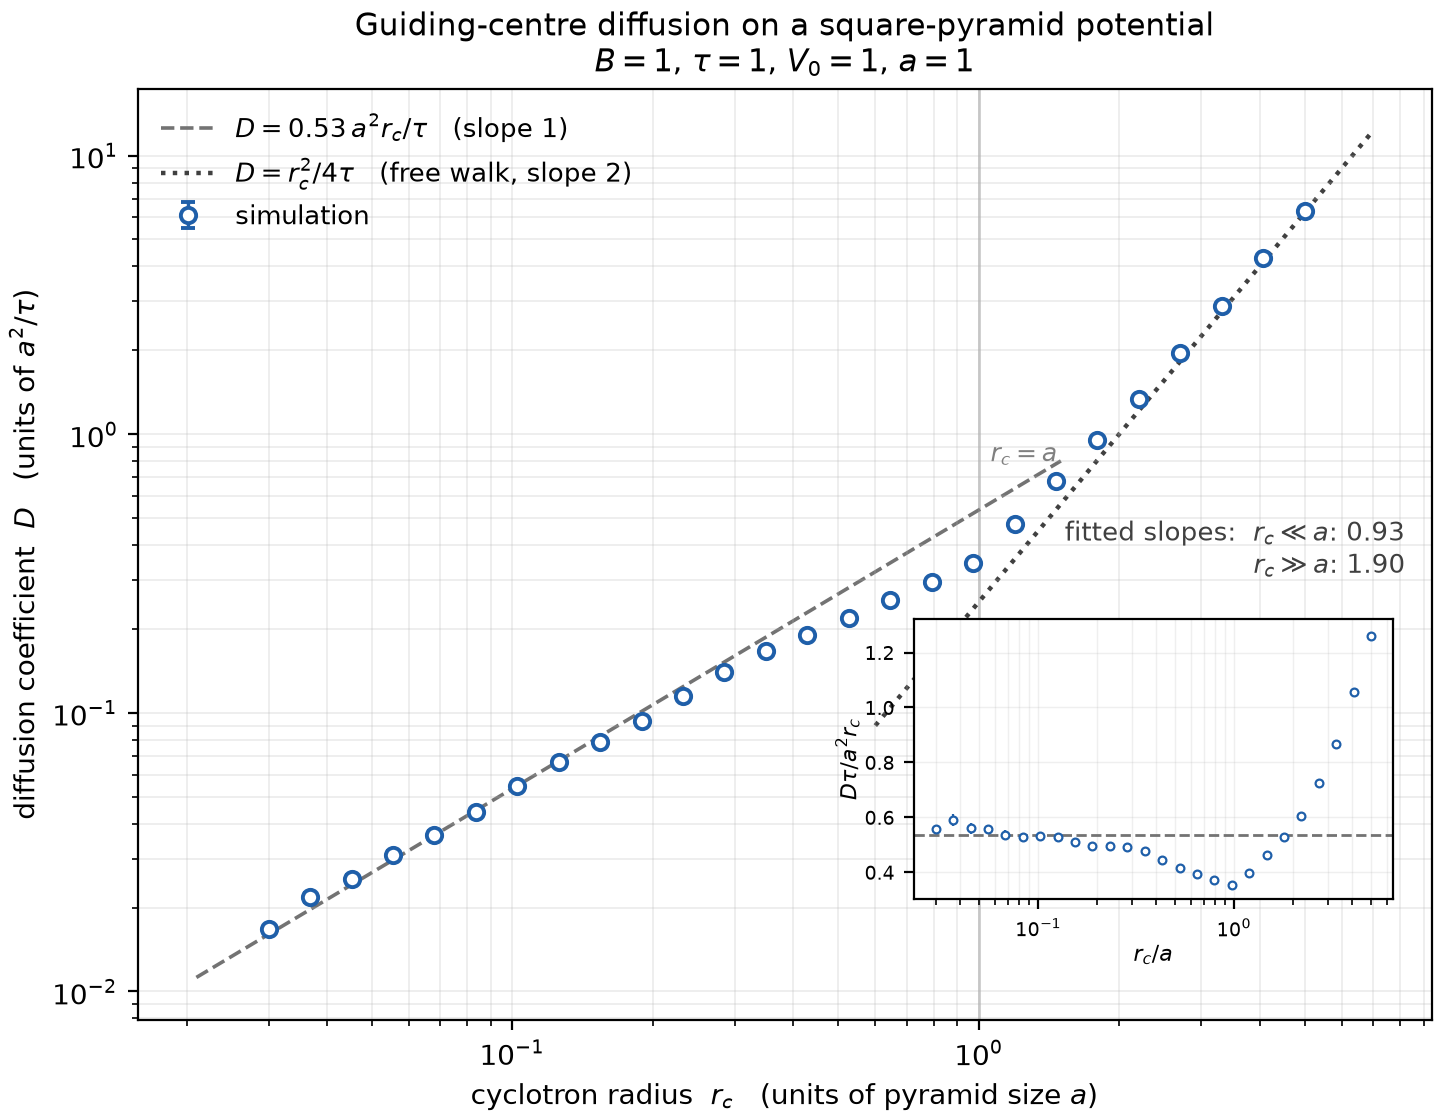
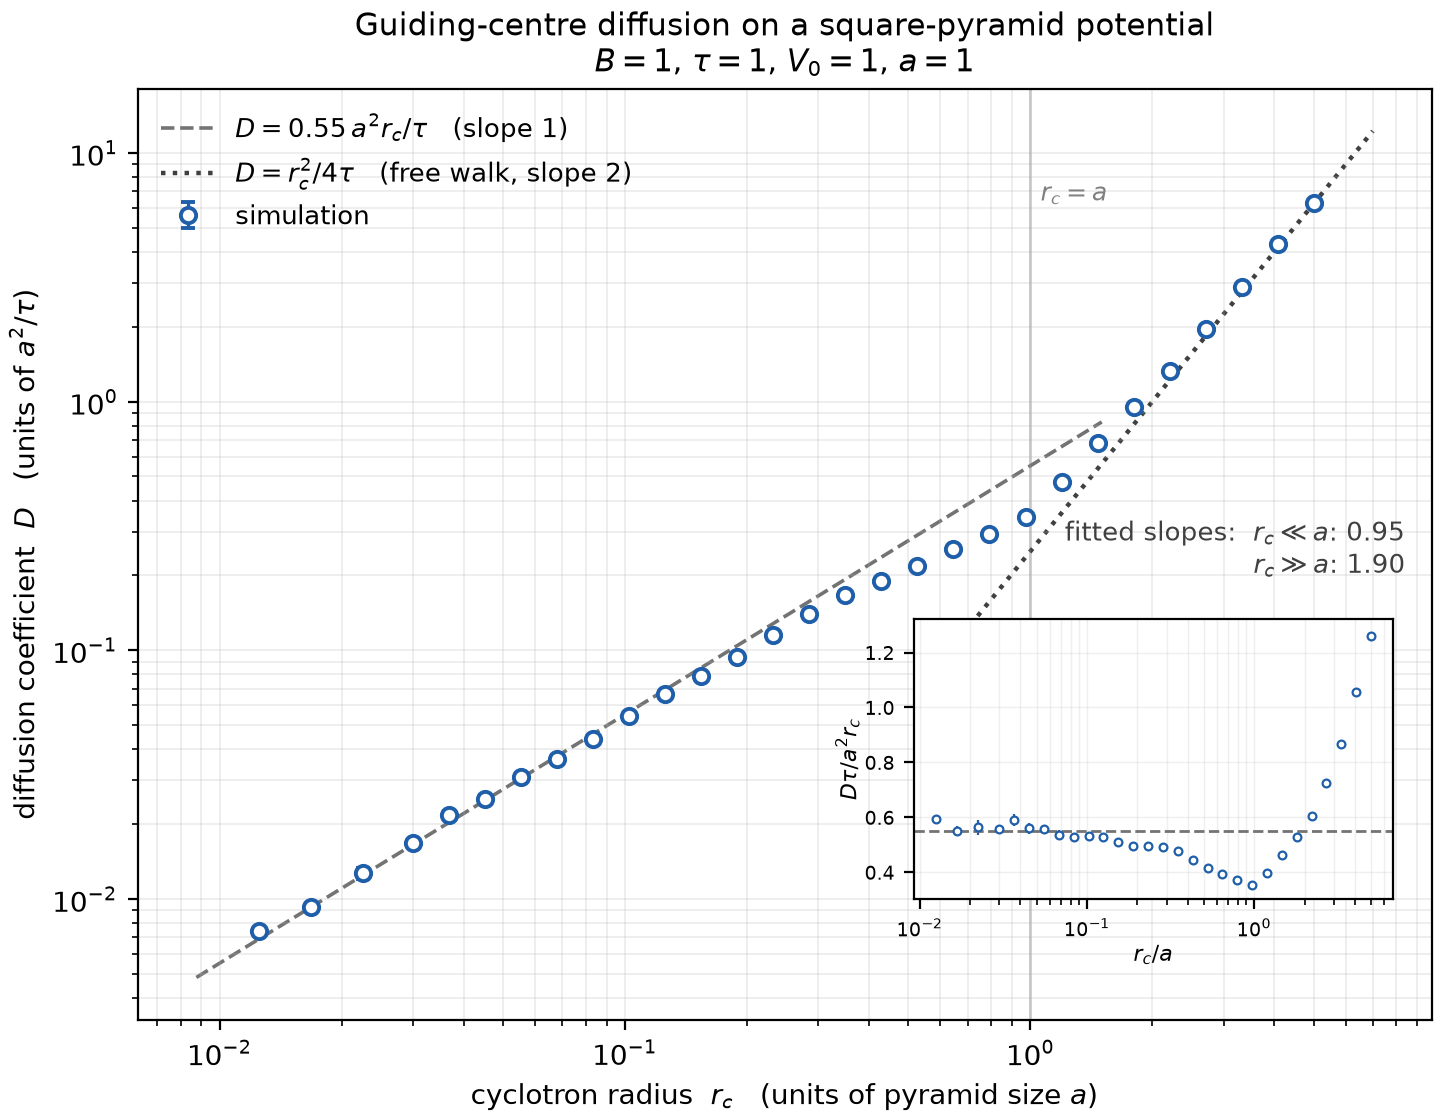
Extend the sweep down to r_c = 0.0125a and finalise the write-up
Three extra points (runs up to 1.28M steps) push the sweep to 2.6 decades.
The small-r_c law is confirmed over the full decade below 0.1a: exponent
0.96 and D tau / a^2 r_c = 0.55 flat to +-6%.  The plot merges both sweep
files and gains an inset of the compensated D, which shows the plateau, the
dip near r_c = a, and the crossover to the free walk.

diff --git a/scripts/plot_D_vs_rc.py b/scripts/plot_D_vs_rc.py
@@ -23,7 +23,8 @@ def power_law_exponent(x, y, lo, hi):
 def main():
     p = argparse.ArgumentParser()
     p.add_argument("--data", nargs="+",
-                   default=["data/D_vs_rc_pyramid.npz"],
+                   default=["data/D_vs_rc_pyramid.npz",
+                            "data/D_vs_rc_pyramid_small.npz"],
                    help="one or more sweep files; they are merged and sorted")
     p.add_argument("--out", default="figures/D_vs_rc_pyramid.png")
     args = p.parse_args()
@@ -53,7 +54,7 @@ def main():
     ax.plot(x_hi, x_hi ** 2 / (4 * tau), ls=":", lw=1.6, color="0.25", zorder=1,
             label=r"$D = r_c^2/4\tau$   (free walk, slope 2)")
     ax.axvline(a, color="0.8", lw=1.0, zorder=0)
-    ax.annotate("$r_c = a$", xy=(a * 1.06, 0.60), xycoords=("data", "axes fraction"),
+    ax.annotate("$r_c = a$", xy=(a * 1.06, 0.88), xycoords=("data", "axes fraction"),
                 color="0.5", fontsize=9)
 
     ax.errorbar(rc, D, yerr=D_err, fmt="o", ms=5.5, lw=1.2, capsize=2.5,

diff --git a/README.md b/README.md
@@ -71,6 +71,10 @@ tests/test_physics.py  contour conservation, exact-vs-RK4, free-walk limit
 ```
 pip install numpy matplotlib
 python scripts/run_pyramid.py            # ~5 min: the r_c sweep at B = 1, τ = 1
+# optional ~11 min extension to r_c = 0.0125a (the runs get long as (a/r_c)^2)
+python scripts/run_pyramid.py --rc-min 0.0125 --rc-max 0.0225 --n-rc 3 \
+    --max-steps 1500000 --min-walkers 384 --seed 7000 \
+    --out data/D_vs_rc_pyramid_small.npz
 python scripts/plot_D_vs_rc.py           # figures/D_vs_rc_pyramid.png
 python scripts/plot_illustration.py      # figures/pyramid_illustration.png
 python -m pytest tests -q
@@ -113,15 +117,17 @@ exponent that is not the naive one**:
 
 | regime | measured | law |
 |---|---|---|
-| `r_c ≪ a` | local slope ≈ 0.95 | `D ≈ 0.53 a² r_c / τ`  — **linear** in `r_c` |
-| `r_c ≫ a` | local slope ≈ 1.9 → 2 | `D → r_c²/4τ`, the free random walk (ratio 1.01 at `r_c = 5a`) |
+| `r_c ≪ a` | slope 0.96 over the decade below `0.1a` | `D ≈ 0.55 a² r_c / τ`  — **linear** in `r_c` |
+| `r_c ≫ a` | slope 1.90 → 2 | `D → r_c²/4τ`, the free random walk (ratio 1.01 at `r_c = 5a`) |
+
+The sweep covers `r_c = 0.0125a … 5a`, i.e. 2.6 decades.
 
 The large-`r_c` end is the trivial one: the hops dwarf the landscape, the walk is
 just `n` random steps of length `r_c`, and `D = r_c²/4τ`.
 
 The small-`r_c` end is the interesting one. Naively a walker that hops by `r_c`
-should give `D ~ r_c²/τ`; instead it is **larger by a factor ~ a/r_c** (a factor
-of 74 at `r_c = 0.03a`), and linear in `r_c`. The reason is that the hop is not
+should give `D ~ r_c²/τ`; instead it is **larger by a factor ~ a/r_c** (190x at
+`r_c = 0.0125a`), and linear in `r_c`. The reason is that the hop is not
 the transport step — the contour drift is:
 
 * A kick changes the contour *level* by `δV = ∇V·δr`, i.e. `⟨δV²⟩ = 2V₀²r_c²/a²`.
@@ -134,7 +140,7 @@ the transport step — the contour drift is:
 * The walker sits within `δV ~ V₀ r_c/a` of the percolating level for a fraction
   `~ r_c/a` of its steps, so cell-to-cell moves happen at rate `~ r_c/(aτ)`,
   each of size `~a`:  `D ~ a² (r_c/a)/τ ∝ r_c`, with the measured coefficient
-  0.53.
+  0.55 (flat to ±6% over the whole decade `0.0125 ≤ r_c/a ≤ 0.13`).
 
 In between (`0.4 ≲ r_c/a ≲ 1.2`) the local slope *dips* to ≈ 0.7 before turning
 up to 2 — the inset of the first figure shows this as a minimum of
